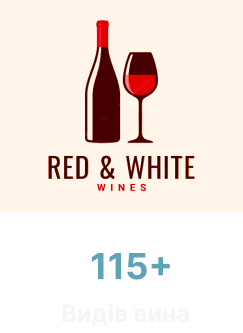
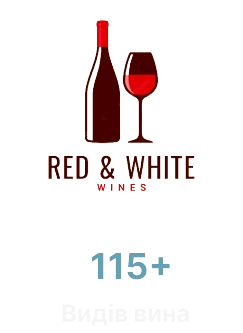
background deleted from images

diff --git a/style.css b/style.css
@@ -25,7 +25,7 @@ body {
     display: flex;
 }
 
-/*-----------------------------------------------------HEADER-----------------------------------------------------*/
+/* ========================================================= HEADER ========================================================= */
 
 header {
     height: 90.11px;
@@ -52,8 +52,6 @@ header {
 .menu {
     gap: 70px;
     list-style: none;
-    /* margin-top: 30px; */
-    /* margin-left: 250px; */
     font-family: Inter;
     font-size: 16px;
     font-weight: 700;
@@ -407,7 +405,7 @@ footer h2 {
 footer .footer-content {
     display: flex;
     justify-content: center;
-    gap: 200px; /* Відстань між блоками */
+    gap: 200px;
 }
 footer .footer-content .footer-item {
     display: flex;
